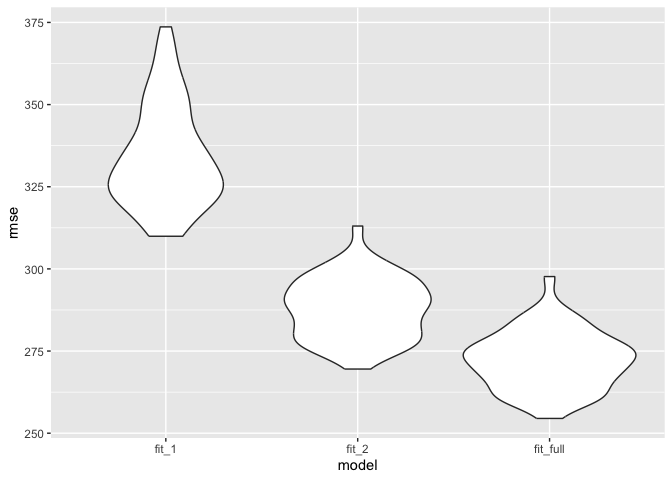
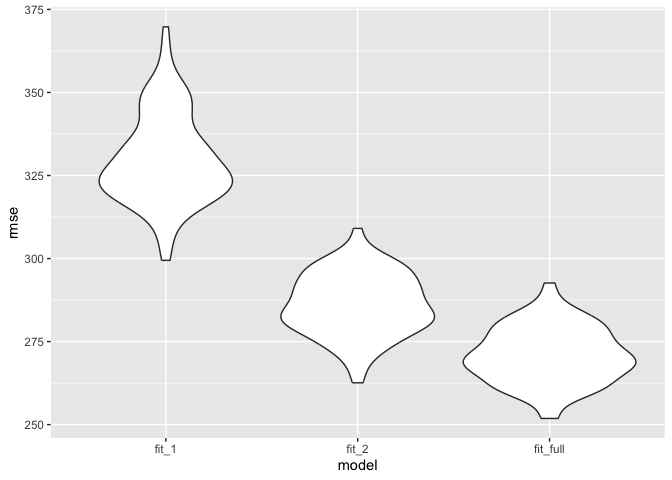
tiny polish

diff --git a/p8105_hw6_hc3451.md b/p8105_hw6_hc3451.md
@@ -29,6 +29,20 @@ weather_df =
 
     ## file min/max dates: 1869-01-01 / 2023-09-30
 
+``` r
+head(weather_df)
+```
+
+    ## # A tibble: 6 × 6
+    ##   name           id          date        prcp  tmax  tmin
+    ##   <chr>          <chr>       <date>     <dbl> <dbl> <dbl>
+    ## 1 CentralPark_NY USW00094728 2022-01-01   201  13.3  10  
+    ## 2 CentralPark_NY USW00094728 2022-01-02    10  15     2.8
+    ## 3 CentralPark_NY USW00094728 2022-01-03     0   2.8  -5.5
+    ## 4 CentralPark_NY USW00094728 2022-01-04     0   1.1  -7.1
+    ## 5 CentralPark_NY USW00094728 2022-01-05    58   8.3  -0.5
+    ## 6 CentralPark_NY USW00094728 2022-01-06     0   5     1.1
+
 ## Bootstrap
 
 ``` r
@@ -48,38 +62,19 @@ result = weather_df |>
     beta_2 = prcp) |>
   summarise(r_squared = r.squared,
             log_beta1_2 = log(beta_1*beta_2))
-```
-
-    ## Warning: `unnest()` has a new interface. See `?unnest` for details.
-    ## ℹ Try `df %>% unnest(c(weather_lm_r2, weather_lm_beta))`, with `mutate()` if
-    ##   needed.
-
-    ## Warning: There was 1 warning in `summarise()`.
-    ## ℹ In argument: `log_beta1_2 = log(beta_1 * beta_2)`.
-    ## Caused by warning in `log()`:
-    ## ! NaNs produced
-
-    ## Warning: Returning more (or less) than 1 row per `summarise()` group was deprecated in
-    ## dplyr 1.1.0.
-    ## ℹ Please use `reframe()` instead.
-    ## ℹ When switching from `summarise()` to `reframe()`, remember that `reframe()`
-    ##   always returns an ungrouped data frame and adjust accordingly.
-    ## Call `lifecycle::last_lifecycle_warnings()` to see where this warning was
-    ## generated.
-
-``` r
+  
 head(result)
 ```
 
     ## # A tibble: 6 × 2
     ##   r_squared log_beta1_2
     ##       <dbl>       <dbl>
-    ## 1     0.885       -5.30
-    ## 2     0.926      NaN   
-    ## 3     0.937      NaN   
-    ## 4     0.930      NaN   
-    ## 5     0.919       -5.67
-    ## 6     0.913       -5.38
+    ## 1     0.908      NaN   
+    ## 2     0.912      NaN   
+    ## 3     0.919      NaN   
+    ## 4     0.916       -5.82
+    ## 5     0.926      NaN   
+    ## 6     0.920      NaN
 
 ## Plot Distributions: r^2
 
@@ -110,8 +105,6 @@ result |>
 
     ## `stat_bin()` using `bins = 30`. Pick better value with `binwidth`.
 
-    ## Warning: Removed 328 rows containing non-finite values (`stat_bin()`).
-
 ![](p8105_hw6_hc3451_files/figure-gfm/unnamed-chunk-6-1.png)<!-- -->
 
 According to the graph, we find that the estimates for log(beta_1 \*
@@ -126,7 +119,7 @@ r2_ci
 ```
 
     ##      2.5%     97.5% 
-    ## 0.8848387 0.9400012
+    ## 0.8896648 0.9393218
 
 ``` r
 log_beta12_ci = quantile(pull(result, log_beta1_2),
@@ -135,7 +128,7 @@ log_beta12_ci
 ```
 
     ##      2.5%     97.5% 
-    ## -9.283744 -4.427567
+    ## -7.970840 -4.678777
 
 # Problem 3
 
@@ -309,22 +302,6 @@ cv =
          rmse_fit_2 = map2_dbl(map(train,~model_2),
                                test, ~rmse(model = .x,data = .y))
   )
-
-head(cv)
-```
-
-    ## # A tibble: 6 × 6
-    ##   train                   test                  .id   rmse_fit_full rmse_fit_1
-    ##   <list>                  <list>                <chr>         <dbl>      <dbl>
-    ## 1 <resample [3,473 x 20]> <resample [869 x 20]> 001            270.       327.
-    ## 2 <resample [3,473 x 20]> <resample [869 x 20]> 002            262.       320.
-    ## 3 <resample [3,473 x 20]> <resample [869 x 20]> 003            259.       322.
-    ## 4 <resample [3,473 x 20]> <resample [869 x 20]> 004            278.       320.
-    ## 5 <resample [3,473 x 20]> <resample [869 x 20]> 005            297.       371.
-    ## 6 <resample [3,473 x 20]> <resample [869 x 20]> 006            272.       350.
-    ## # ℹ 1 more variable: rmse_fit_2 <dbl>
-
-``` r
 cv |>
   dplyr::select(starts_with("rmse")) |>
   pivot_longer(
